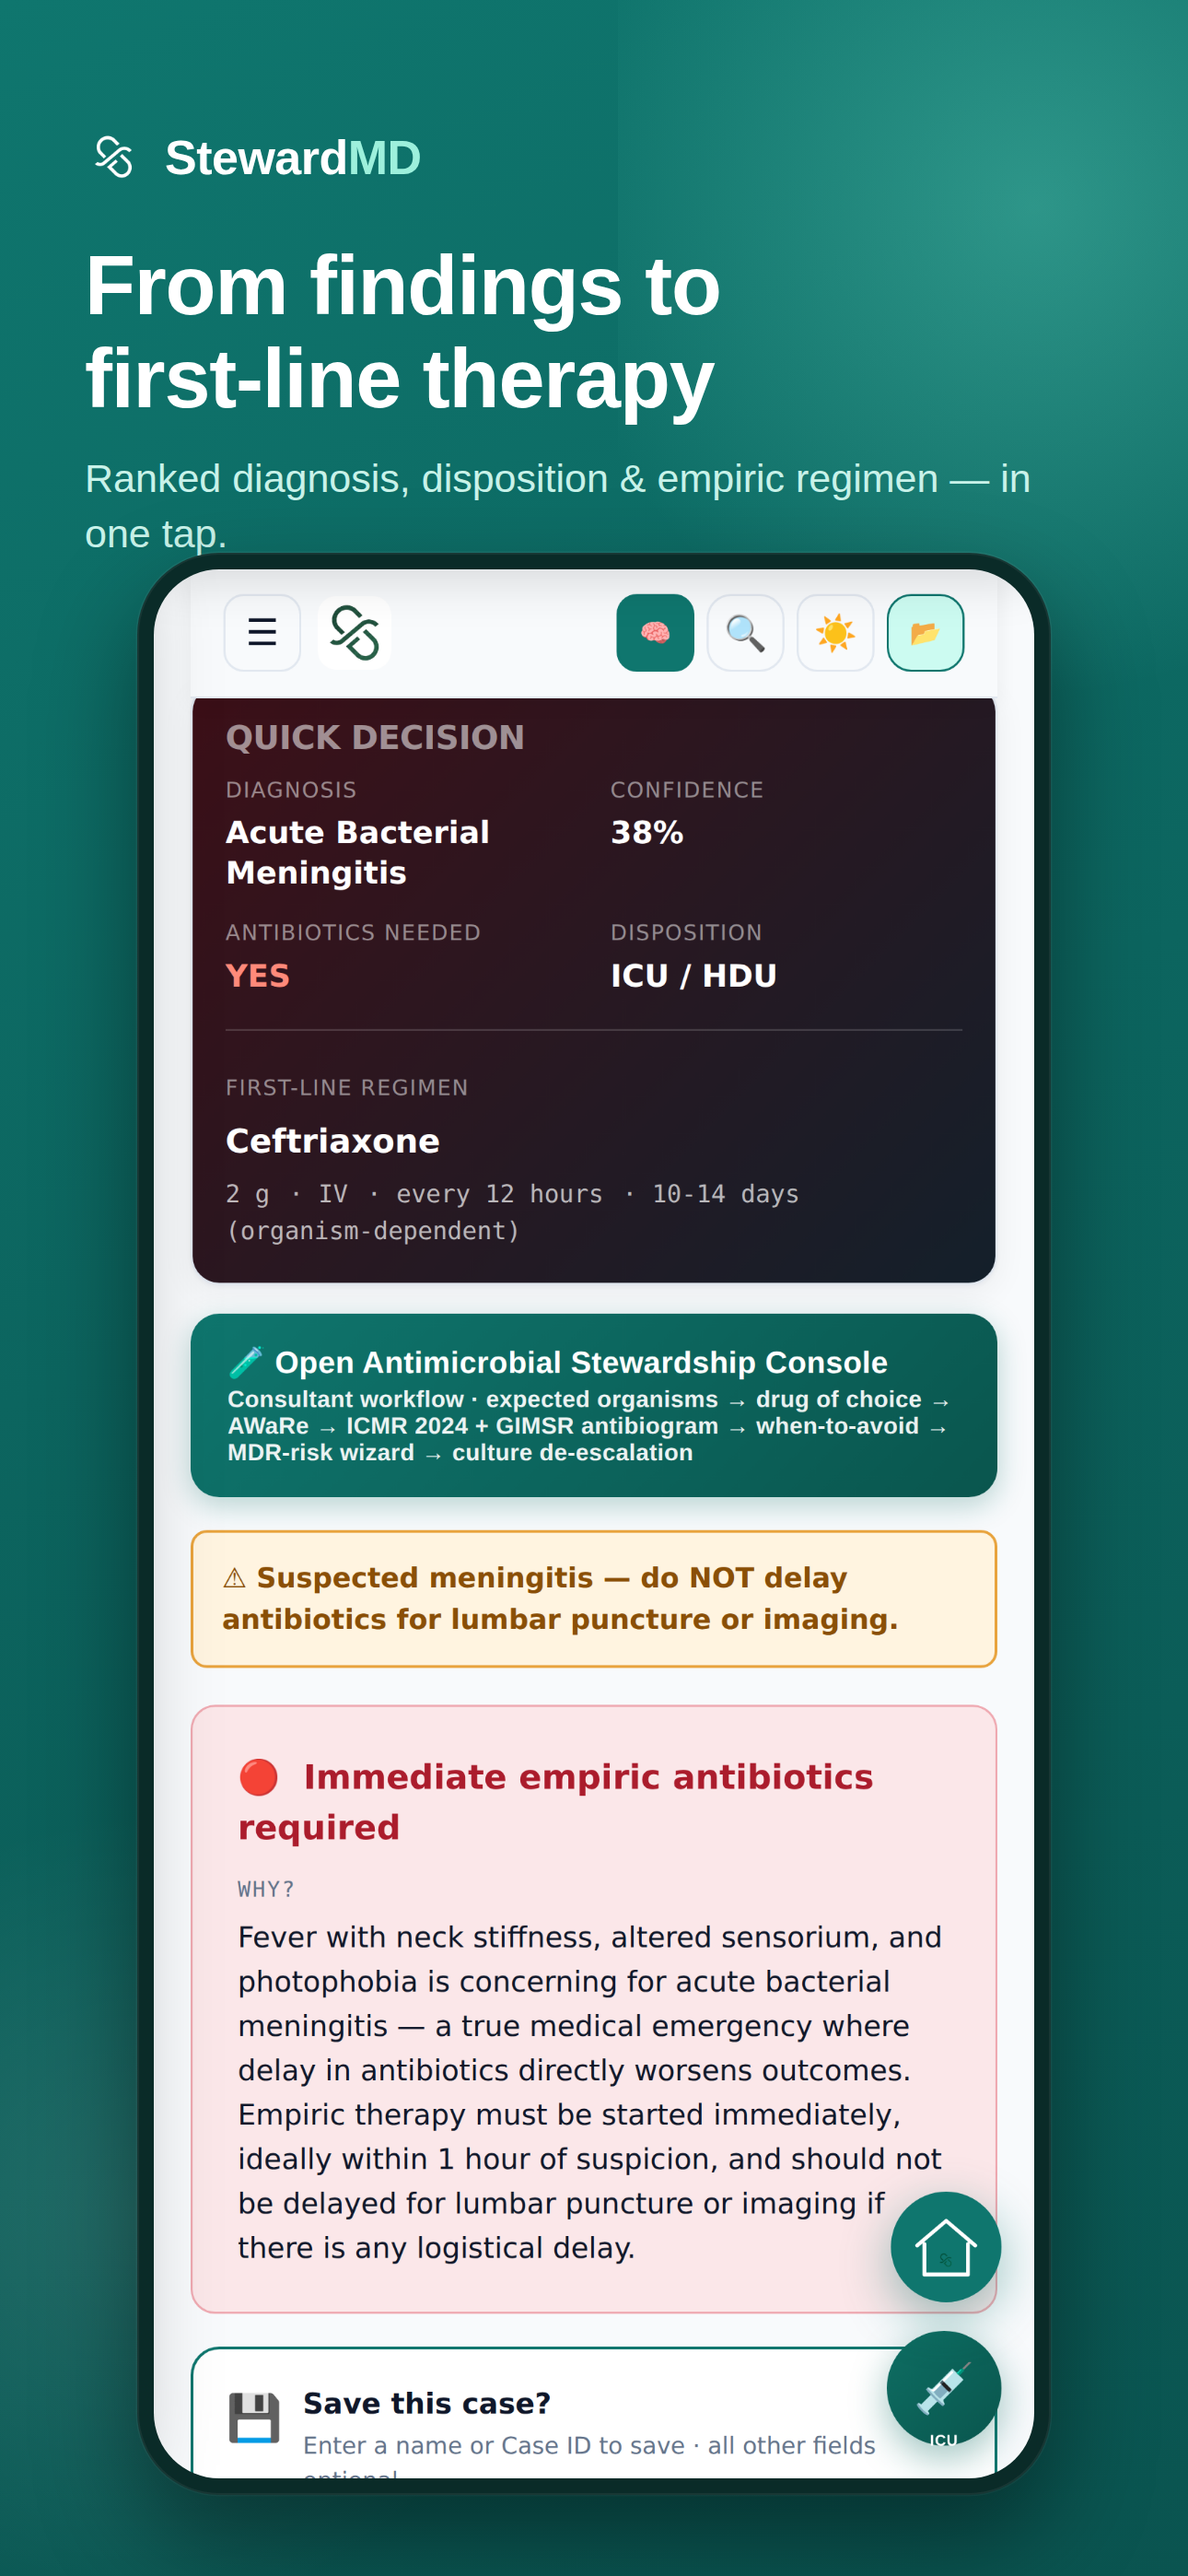
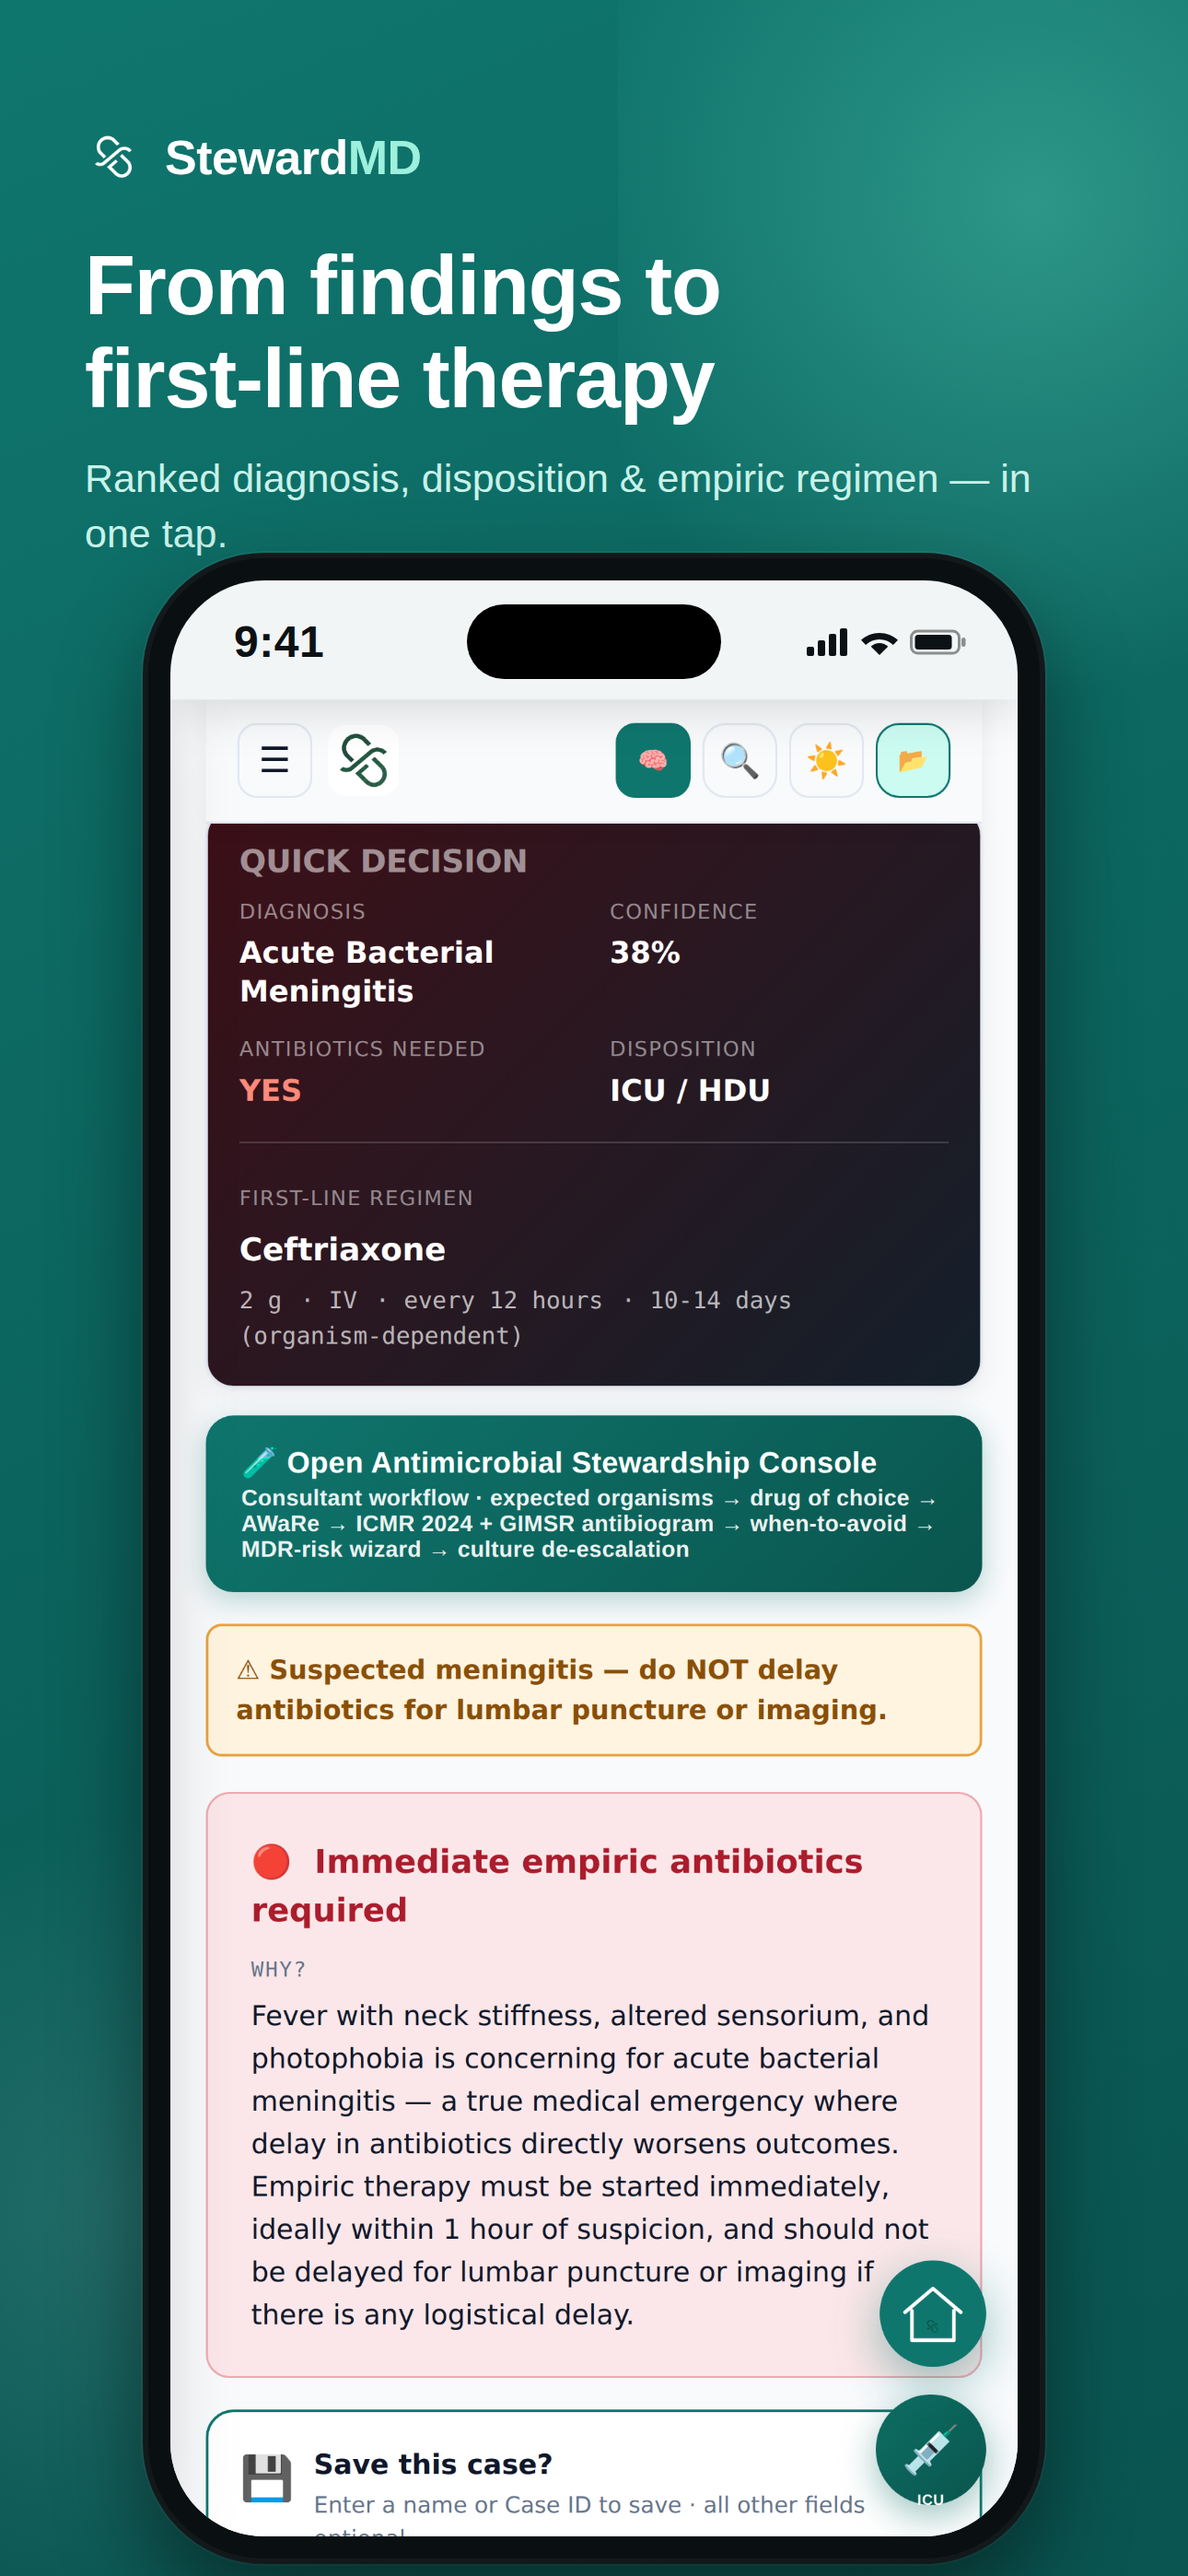
Reframe Apple screenshots with realistic iPhone-Pro frame
Add Dynamic Island, true-to-life bezel, and a subtle 9:41 status bar
(signal/wifi/battery) to all 12 Apple App Store screenshots. Status-bar
strip color matches each screen's top (light / teal / dark) so it reads
seamlessly. Google Play set unchanged.

Claude-Session: https://claude.ai/code/session_01UJcQguYegKvQdPMqovZnUx

Changed region(s): [[0.093, 0.2178, 0.8992, 0.9957]]

diff --git a/store-assets/README.md b/store-assets/README.md
@@ -8,7 +8,7 @@ StewardMD brand.
 
 | Store | Folder | Dimensions | Notes |
 |-------|--------|-----------|-------|
-| Apple App Store | `apple/` | **1290 × 2796** | 6.7″ iPhone (largest required set; App Store Connect down-scales to smaller devices) |
+| Apple App Store | `apple/` | **1290 × 2796** | 6.7″ iPhone, realistic iPhone-Pro frame (Dynamic Island + 9:41 status bar); largest required set — App Store Connect down-scales to smaller devices |
 | Google Play | `google-play/` | **1080 × 2160** | Phone (2:1 max ratio — needs its own size; Apple's cannot be reused) |
 
 `raw-app-screens/` holds the unframed source captures (device viewport only), in
@@ -34,8 +34,10 @@ case you want to re-frame or crop differently.
 - **Apple**: one 6.7″ set is the minimum required; these auto-scale. 3–10 images.
 - **Google Play**: 2–8 phone screenshots. A separate 1024 × 500 feature graphic is
   also required by Play — included (see below).
-- Screenshots intentionally omit the OS status bar; both stores accept this
-  (Apple prefers it).
+- The Apple set uses a realistic iPhone-Pro device frame (Dynamic Island +
+  9:41 status bar). The Play set uses a clean frameless-style device. Device
+  frames are optional for both stores — only the exact pixel dimensions are
+  enforced.
 
 All clinical output shown is decision-support only and carries the app's in-product
 "verify locally / not a substitute for clinical judgment" disclaimers.
